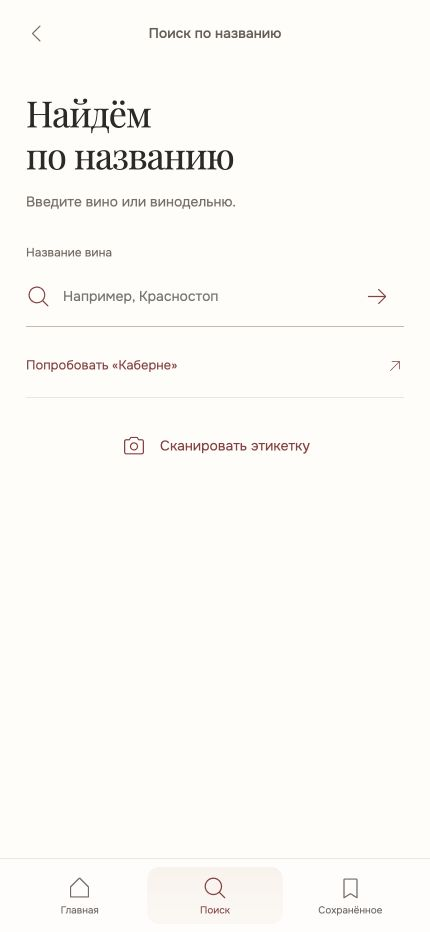
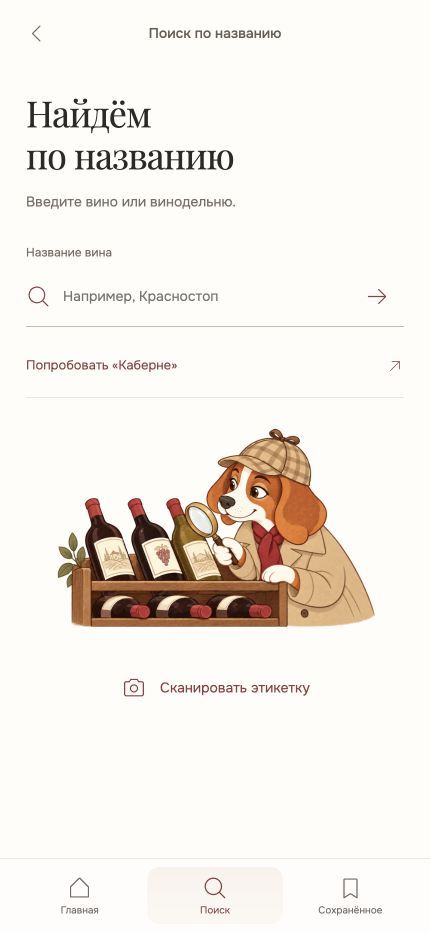
design: approve Air v3.4 and hand off audited behavior with search mascot

diff --git a/design/wine-ux-v3/air/review.html b/design/wine-ux-v3/air/review.html
@@ -17,5 +17,5 @@ body{background:#f5f2ec;color:#2c2a28}main{max-width:1270px;margin:auto;padding:
 <figure><a href="./?screen=saved"><img src="review/air-saved-430.png" width="430" height="932" alt="Пример сохранённого вина" loading="lazy"></a><figcaption><a href="./?screen=saved">Сохранённое ↗</a><span class="caption">Чтобы наполнить полку в макете, сохраните вино из карточки.</span></figcaption></figure>
 </div></section>
 <section class="section"><h2>Проверка перед показом</h2><p class="qa">Сравнение снято в одном браузере на 430 × 932. Дополнительно проверены мобильные ширины 402, 440, 412 и 360 px. Это проверка веб-вёрстки, а не тест на физических iPhone и Android. Все данные синтетические, системная камера и поиск не подключены.</p><p class="qa">Открытый список требует чуть больше прокрутки. Тонкие иконки сохранили контраст, но их удобство на реальном экране и при ярком свете ещё стоит оценить руками.</p></section>
-<details><summary>Changelog · 25 сентября 2026</summary><p><b>Air / 3.4.</b> Отдельный вариант в папке air. Обновлены все 11 экранов: главная, камера, распознавание, долгий поиск, выдача, карточка, нет совпадений, ошибка сервиса, нет сети, ручной поиск, сохранённое. Старый v3.3 не изменён. Выполнены визуальное сравнение и ручная проверка ключевых переходов. Это дизайн-предложение, не передано в реализацию.</p></details><footer>Мобильный прототип · Своё Вино · Phosphor Icons / MIT</footer>
+<details><summary>Changelog · 25 сентября 2026</summary><p><b>Air / 3.4.</b> Отдельный вариант в папке air. Обновлены все 11 экранов: главная, камера, распознавание, долгий поиск, выдача, карточка, нет совпадений, ошибка сервиса, нет сети, ручной поиск, сохранённое. Старый v3.3 не изменён. Выполнены визуальное сравнение и ручная проверка ключевых переходов. Дизайн согласован 25.09.2026. Добавлен маскот пустого поиска по названию. Требования передаются в Sigma Ops BDD; TEST и PROD пока не обновлять.</p></details><footer>Мобильный прототип · Своё Вино · Phosphor Icons / MIT</footer>
 </main></body></html>

diff --git a/design/wine-ux-v3/air/index.html b/design/wine-ux-v3/air/index.html
@@ -17,7 +17,7 @@
 <div class="scenario-list" id="scenario-list"></div>
 <section class="state-rationale" aria-live="polite"><span>ЛОГИКА ЭКРАНА</span><p id="state-rationale"></p></section>
 <section class="change-map"><h2>Что примеряем</h2><ol><li><b>Выдача:</b> бутылки и текст на общей поверхности; лидер крупнее, между строками лёгкие линии.</li><li><b>Главная:</b> цельная кремовая сцена, одна заметная кнопка, вторичные действия без подложек.</li><li><b>Иконки:</b> единое семейство Phosphor Light. Тонкий рисунок, большая область нажатия.</li><li><b>Камера и карточка:</b> убраны декоративные плашки и тени. Приоритет у снимка и вина.</li><li><b>Движение:</b> навигация плавно переходит между пунктами. Заметки о вине можно поставить на паузу.</li></ol></section>
-<p class="studio-lead air-disclaimer">Это отдельное предложение. Вина вымышлены; камера, галерея и поиск — симуляции. В приложение изменения не переносились.</p>
+<p class="studio-lead air-disclaimer">Дизайн согласован для реализации. Здесь вина вымышлены; камера, галерея и поиск — симуляции. Продуктовая реализация ведётся отдельно, без выкладки на TEST и PROD.</p>
 <p class="report-doc-links"><a href="research.md">Исследование и источники ↗</a></p>
 <details class="studio-details"><summary>Changelog <span>↗</span></summary><div><p><b>25.09.2026 · Air / 3.4</b></p><p>Вариант без карточек-плашек, тонкие иконки и единая лёгкая композиция на 11 экранах. Поведение v3.3 сохранено; исходный вариант доступен отдельно.</p></div></details>
 </aside>

diff --git a/design/wine-ux-v3/air/styles.css b/design/wine-ux-v3/air/styles.css
@@ -119,3 +119,10 @@ body{background:#f3f0e9}
  .empty-screen .state-dog,.empty-screen .state-dog.counter{height:160px;margin-top:8px;margin-bottom:15px}
  .capture-screen{padding-top:12px}
 }
+
+/* Approved name-search empty state: scene belongs to the page, not a card. */
+.search-mascot{height:220px;margin:22px -10px 0;display:flex;justify-content:center;align-items:center}
+.search-mascot .dog{display:block;width:100%;height:100%;object-fit:contain}
+.search-screen:has(.search-input input:not(:placeholder-shown)) .search-mascot{display:none}
+@media(max-height:850px){.search-mascot{height:180px;margin-top:18px}}
+@media(max-height:740px){.search-mascot{height:145px;margin-top:10px}}

diff --git a/design/wine-ux-v3/air/bdd-audit.md b/design/wine-ux-v3/air/bdd-audit.md
@@ -1,0 +1,121 @@
+# Air / v3.4: аудит BDD перед реализацией
+
+Дата: 25.09.2026. Основание: новое согласование Макса в текущей задаче — Air/v3.4,
+новые BDD/тесты и замена устаревших проверок разрешены. Это аудит, не реализация.
+Формулировки «не утверждено» / «передачи BDD нет» в прежнем README описывают предыдущую итерацию.
+
+Проверена ветка `codex/design-v3-recovery`, HEAD `d7ef1ca`.
+Read-only `git fetch origin main` подтвердил `origin/main = b60c647` (PR #59).
+`git diff HEAD origin/main -- apps/web cases docs/product` пуст:
+продуктовые исходники, сценарии и проверки здесь совпадают с проверенным main.
+Checkout/reset, изменение продукта, тестов, CI, live-сервисов и browser QA не выполнялись.
+Изменён только этот документ. Тесты не запускались: аудит не заявляет их прохождение.
+
+Прочитаны корневые AGENTS/MAP/README, RULES, web AGENTS, актуальные behavior/design,
+catalog-display/card-polish/security specs, cases.json, React/API-клиентские проверки
+и соответствующие переходы App.tsx. Исторические reports не приняты за текущую спецификацию.
+
+## Правило миграции
+
+Сохранить стабильный ID, когда его смысл остаётся прежним; обновить Given/When/Then,
+название в cases.json и связанный исполняемый тест в одном изменении.
+«Retire» ниже означает убрать конкретное устаревшее ожидание, не удалить весь тест/ID
+и не ослабить его остальные гарантии. Прежние отчёты остаются историей.
+Новые ID назначить при реализации после проверки реестра; метки A34 ниже — локальная
+матрица аудита, не занятые case IDs и не новые постоянные тесты.
+
+## Матрица существующих требований и тестов
+
+Пути в таблицах относительно корня репозитория; номера строк — проверенный HEAD.
+
+| ID / точный тест или источник | Решение | Причина и необходимая замена |
+|---|---|---|
+| DEMO-003; SR-001/005; `App.test.tsx:204`, `SR-005 one photo candidate sends its receipt into search and reaches UI-007` | Revise; retire автоматический exact→карточка | Любое непустое фотоответное множество, включая единственный selectedId и высокий score, сначала список. Проверку multipart→receipt→search оставить; перед открытием UI-007 явно выбрать строку. Не менять API-001/selectedId на сервере ради этого UI-решения. |
+| SR-005; `App.test.tsx:191`, `one unselected photo candidate uses a singular heading and one actionable row` | Keep + extend | Уже проверяет ручной выбор singleton. Добавить тот же результат с selectedId; отсутствие фиктивных альтернатив и корректное единственное число сохранить. |
+| SR-001/002/003/004; `App.test.tsx:447`, `keeps multi-photo candidates ordered until a user chooses one, then restores the list`; `:492`, `handles the system Back event...` | Keep + extend | Порядок backend, выбор именно ID/года, возврат и отсутствие нового HTTP остаются. Проверить выбранный не первый ID, высокий score, положение списка и исходный снимок; selectedId не переставляет строки. |
+| DEMO-005; UI-004/005; `App.test.tsx:280`, `cancellation returns home and keeps a photo only for explicit resume or deletion` | Revise; retire resume/delete-photo Home | Отмена теперь чистая Главная: убрать ожидания «Продолжить поиск» и «Удалить фото»; проверить их отсутствие, очистку фото/receipt/результата и abort. Сохранить запрет автоматического повтора. |
+| UI-005; `App.test.tsx:315`, `ignores a late response after cancellation and resumes only on request` | Keep stale-response assertion; rename + extend | Тело этого теста фактически проверяет поздний ручной ответ после Back, а не возобновление фото. Сохранить эту защиту; отдельно покрыть late success/error загрузки и поиска по фото после Home. Название больше не должно обещать resume. |
+| UI-022; `navigation.test.tsx:125`, `keeps a completed scan photo when Home opens without camera` | Revise; retire retained-photo assertions | Проверить чистую Главную из результатов/карточки и отсутствие getUserMedia. Нельзя оставить прежнюю фотографию просто скрытой с доступным старым receipt. |
+| UI-022; `navigation.test.tsx:82`, `bottom Home returns to the start screen without starting camera capture`; `:104`, `explicit scan CTA...` | Keep; split scope clearly | Home не открывает камеру; CTA открывает, отказ имеет fallback; сохранённые вина не удаляются. Сохранение ручного query при повторном входе — отдельное прежнее свойство, не отменённое требованием очистить фото-попытку. Не превращать чистую Home в очистку localStorage. |
+| DEMO-006, SR-005; `App.test.tsx:540`, `zero photo candidates offer the existing manual-search and reshoot fallback` | Extend; revise class-only assertions | Сейчас проверены ручной поиск и камера, но нет галереи. Добавить обе возможности замены фото; сохранить запрет выдуманных результатов. `primary`/`secondary` не являются самостоятельным поведением; точный вид берётся из Air. |
+| SR-006; `App.test.tsx:570`, `declining candidates keeps the editable correction context without its photo` | Revise transition; keep manual isolation | Прямой отказ сейчас сразу ведёт в редактируемую коррекцию. Air сначала показывает восстановление «варианты не подошли», отличное от пустого ответа, с названием/камерой/галереей. Затем ручное поле не должно показывать фото; Back возвращает исходную ветку. Не терять её фото до принятой замены. |
+| DEMO-009, UI-028; `App.test.tsx:691`, `distinguishes network and server failures and retries a retained receipt` | Keep + strengthen | Сеть фото покрыта; серверная половина — только manual GET. Нужны photo-search 503, timeout и невалидный ответ отдельно от пустого успеха; повтор использует receipt. После успешного retry ожидается список, затем явный выбор. |
+| UI-005; `App.test.tsx:339`, `retry preserves scenario and query`; `:363`, `retry reuses a completed upload receipt` | Keep | Не загружать те же байты повторно, когда есть receipt. Обновить лишь helper/ожидание auto-open. Ошибка upload до receipt допускает повтор upload. |
+| UI-011; `App.test.tsx:237/250`; `api.test.ts:40`, `distinguishes rejected image content from temporary upload failures` | Keep + extend origin | Невалидный файл — ошибка ввода, не no-match и не server-search error. При отмене/отказе от замены прежний контекст доступен; клиентская проверка не заменяет серверную. |
+| UI-001/002/003/003A; `App.test.tsx:62/88/113/162/175` | Keep + extend | Реальная камера, JPEG capture, остановка текущего и поздно полученного stream, gallery и permission fallback остаются. Новый accepted capture сразу запускает upload/search без экрана подтверждения. |
+| UI-026; `App.test.tsx:629`, `preview returns to its settled async origin instead of restoring stale loading` | Keep + extend | Закрытие просмотра сохраняет фактически завершившееся состояние. Список/scroll не сбрасываются, новый HTTP не отправляется. Проверить завершение запроса пока снимок открыт. |
+| UI-027; `App.test.tsx:664`; `navigation.test.tsx:315`, `returns from a catalog card to the same list position`; `:328`, `a saved card correction cannot reuse candidates from an older search` | Keep + extend | Возврат соответствует фото/ручному поиску/каталогу/сохранённому, не глобальному последнему списку. Не повторять HTTP, не открывать клавиатуру насильно. |
+| SR-007; `App.test.tsx:425`, `renders unknown fields and a broken catalog image without inventing metadata` | Revise; retire «Год не указан» | Неизвестный год исчезает из видимого текста и accessible name. Полное имя, честная заглушка и отсутствие пустых разделителей остаются. Год не извлекается из названия; известные данные не теряются. |
+| CAT-004/005/007; `catalog-display-spec.md`, `catalog.test.tsx:90/104`; UI-029 `App.test.tsx:739` | Keep + extend | Только существующие структурированные поля; никакого дегустационного описания цвета вместо краткой категории. Источник/дата только реальные, честная reference/demo пометка сохраняется. Отсутствие сведений не заменяется заполнителями. |
+| SR-008; `App.test.tsx:405`; REC001…REC005 `recommendations.test.tsx` | Keep | Ранжированный текстовый поиск и рекомендации сохраняют порядок и выделение лидера; исходный каталог/сохранённое не получают ложный рейтинг. Ошибка рекомендаций не заменяет карточку; stale response отменяется. |
+| CAT-015…021; все тесты `live-search.test.tsx`; UI-024 `navigation.test.tsx:299` | Keep | 250ms, первый непустой символ, IME, явный submit, отмена, стабильность прежних карточек, серверная пагинация и возврат остаются. Air-макет с demo submit не основание вводить лишний шаг или убирать live search. |
+| UI-008; `App.test.tsx:271`, `keeps the catalog hidden until the user asks for it`; `:528`, `does not send an empty manual query...` | Keep + extend idle art | Начальный ручной ввод остаётся сразу доступным. Добавить 2D alpha mascot в idle; он исчезает при загрузке/выдаче/пустом результате/ошибке и не превращается в промежуточный экран. Явный каталог и очистка уже выполненного поиска по CAT-017 не равны idle. |
+| DESIGN-022; `design.test.tsx:182`, `places selected mascots only in their approved rendered app states` | Revise placement checks; keep alpha semantics | Текущий тест проверяет mascot по входу нижнего «Поиск», но не матрицу фаз ручного поиска. Добавить оба входа, alpha, отсутствие смешивания и mascot в результатах. Пиксельный размер файла >50KB не доказывает качество/прозрачность и не должен запрещать оптимизированный asset. |
+| DESIGN-022; `design.test.tsx:221`, `gives photo no-match actions the approved full-width geometry` | Retire obsolete geometry; replace | Две full-width кнопки v2 не соответствуют Air с основным действием и лёгкой камерой/галереей. Сохранить доступность всех трёх выходов, touch targets и видимость на малом экране. |
+| DESIGN-023/026; `card-polish.test.tsx:41/73`, `card-polish-spec.md`; SR-009 | Revise surfaces; keep content/order/images | Отменяются обязательная белая отдельная плитка, белый фон каждой фото-подложки, старый бордовый контур лидера. Air: единая поверхность, разделители, мягкая градация лидера. Остаются contain, full title, fallback, 76×132 / 56×98, backend order и контраст. |
+| DESIGN-024/025; `card-polish.test.tsx:51/62`; UI-023 `navigation.test.tsx:274` | Keep semantics; adapt approved layout only | Именованные Back/Save, aria-pressed, сохранение ID, длинное название и fallback не удаляются ради новой композиции. Точный старый CSS hero/`sizes` меняется только с корректным новым srcset/layout, не произвольно. |
+| DESIGN-013; `design.test.tsx:124`, `preserves the approved Atlas scan vector...` | Revise exact-vector contract | Air утверждает Phosphor Light. Убрать зависимость от старых path/stroke, проверить выбранную согласованную геометрию и имя действия; камера слева и scan справа CTA остаются. |
+| DESIGN-001/002/003/004/006/014/017/018/019/020/022; `design.test.tsx` | Review numeric CSS assertions individually | Шрифты, доступные имена, области касания, focus, active navigation и адаптивность сохранить. Старые цвета/margin/radius/размеры сцены/иконки заменить только на конкретные Air решения. Не удалять весь design suite из-за substring mismatch. |
+| DESIGN-005/007/008/010/011/012/015/016 | Keep invariants | Нет report controls в продукте; настоящая камера, видимый shutter, подсказка вне рамки, safe area, короткий/ландшафтный viewport, desktop shell. Изменение тонкости рамки не отменяет их. |
+| UI-016…021; CAT-001…014; UI-012…015; UI-025; SEC-001…009 | Keep | Каталог, сохранённое, ошибки browser storage, PWA без обязательной установки, API versioning и безопасность не входят в отменяемое поведение. |
+
+## Недостающие сценарии: проверяемая приёмка
+
+| Аудит | Given / When / Then | Уровень и защита от слабой проверки |
+|---|---|---|
+| A34-01 Чистая Home | Из pending upload, pending search, slow, results, detail, empty, network/server error нажать Home; либо отменить поиск. Нет фото, resume, прежнего результата; все активные запросы abort; доставленные позже success/error ничего не меняют. Новый снимок создаёт новую попытку. | React: отложенные promises для обоих запросов, проверить signal и DOM после late resolve/reject. Проверить revokeObjectURL и отсутствие повторного HTTP. Сохранённое не очищается; не ожидать удаления уже приватно загруженного файла на сервере. |
+| A34-02 Results first | Ответ: 0 / 1 / несколько; selectedId отсутствует / совпадает / указывает не на первый; допустимый высокий score. Ноль→empty; иначе список в исходном порядке; только первый лидер, ни одной auto-open карточки. | React table-driven, assert список до клика и правильный ID после. Валидность selectedId определяется действующим API-контрактом, не новым допущением UI. Не придумывать поля confidence для fixture. |
+| A34-03 Все входы замены | Из results, empty, rejected-candidates, server error, offline нажать camera либо gallery. Отмена camera/пикера возвращает именно источник с прежними photo/receipt/list/query/scroll; принятый файл/снимок заменяет попытку и запускает поиск. | React переходы + browser нативный file picker/cancel. Cancel не моделировать пустым успешным upload. Невалидный выбор не стирает прежний контекст. Повторный выбор того же файла также работает. |
+| A34-04 Гонки замены | Пока попытка A работает, принять B; A позже отдаёт receipt/успех/ошибку. Только B определяет UI и receipt; камера A остановлена. | Отложенные HTTP promises, отдельные receipts/ID, отрицательные assertions после обоих порядков завершения. |
+| A34-05 Три исхода | Валидный 200 + []→нет совпадений; transport failure→сеть; 503/timeout/malformed response→ошибка сервиса. В ошибках нет утверждения об отсутствии вина. Retry с готовым receipt без upload; ошибка до receipt повторяет upload. | React + API-client validation. Отдельно photo pipeline, не подмена проверкой manual catalog. Abort по Home не показывается как offline/error. |
+| A34-06 Loading | Запрос начат; линия ограничена прямоугольником исходного фото и не проходит по маскоту. Fast/slow ожидание завершается автоматически по реальному ответу, без Continue/демо-кнопки. | DOM ancestry + browser clipping/геометрия. fake timers и deferred response; проверить быстрый успех, поздний успех/ошибку и отмену. Демо-таймер не является производственным источником результата. |
+| A34-07 Заметки | Пока loading/slow, заметка может сменяться; Pause останавливает только смену текста, кнопка меняет имя/состояние, resume восстанавливает. Поиск и его автоматическое завершение продолжаются. | fake timers, assert неизменный текст после pause и успешный переход по HTTP. Заметки — общие факты, не описание распознанного вина. |
+| A34-08 Reduced motion | prefers-reduced-motion: reduce до входа и при изменении настройки: заметки не автолистаются; scan/slide/spinner не навязывают движение; статический status и все действия доступны. Уход очищает timers. | matchMedia stub + CSS и browser. Отключение анимаций не блокирует request completion и не скрывает статус. Modal photo/background tab не накапливают отложенные смены заметок. |
+| A34-09 Поля | Полная/частичная карточка, неизвестный год/тип/крепость/источник; структурированный color отсутствует, description содержит длинный текст цвета. Показать только имеющиеся разрешённые краткие факты, без «Год не указан», «Нет данных» и разделителей-заполнителей. | DOM список + detail + accessible name. Категорию не добывать парсингом description/name; настоящие числовые диапазоны не усреднять. Не уничтожать полное каталожное описание в предназначенной для него области. |
+| A34-10 Возврат | Открыть не первый результат после scroll/дополнительной страницы из photo/manual/catalog/saved; экранный Back и browser Back восстанавливают правильный источник, query, список, cursor/scroll, без лишнего HTTP и насильного focus. | Расширить SR-003/004, UI-027, CAT-020. Browser нужен для настоящего History/scroll; jsdom не доказывает физическую прокрутку. |
+| A34-11 Ручной ввод | Оба входа сразу показывают поле и idle 2D alpha mascot. Первый ввод запускает CAT-015; loading/results/empty/error остаются под полем без mascot и отдельного шага. Очистка следует CAT-017. | DOM переходы по всем фазам, оба входа; сохранить CAT-016…021 и IME. Не добавлять запрос каталога лишь ради анимации. |
+| A34-12 Light controls | Камера/галерея, Back/Save, pause, навигация доступны клавиатурой и reader; тонкий glyph не уменьшает область нажатия. На 320/360/390/430px, enlarged text и safe area нет перекрытия/overflow. | DOM accessible names, focus/pressed/current; browser measured targets: минимум 44 CSS px, сохранить существующий более строгий 48px там, где он задан; Air recovery 54×54 / компактный 48×52. Не путать размер SVG 25–30px с кнопкой. |
+
+## Несогласованности документации, которые следует закрыть в реализации
+
+1. `behavior-spec.md`: DEMO-003/005/006/009, UI-022, преамбула SR про сохранение
+   одиночного exact-перехода, SR-001/005/006/007 и порядок кратких полей.
+2. `cases/cases.json`: UI-004/005 сейчас прямо обещают retained-photo/resume;
+   поменять title и при необходимости ссылки вместе с тестом, сохранив историю ID.
+3. `apps/web/design-specs.md`: старый mascot placement, точная Atlas-геометрия,
+   «Год не указан», бордовый контур/белые плитки; `card-polish-spec.md` DESIGN-023/026.
+4. `design-v2-migration-plan.md`: retained context/resume и старые «Нет данных»
+   сделать явно историческими, а не конкурирующим нормативным заданием.
+5. Web AGENTS всё ещё предписывает выбранный v2: обновить ссылку на согласованную
+   миграцию v3.4, сохранив upload/PWA/stable UI IDs. Общие контрактные границы не менять.
+
+## Неослабляемые границы
+
+- `API-010…014`, `SEC-001…009`, `UI-011`, `api.test.ts`, `request_security_test.go`,
+  `security_test.go`: реальная проверка/лимиты upload, приватное хранение, receipt,
+  непубличность фото, Origin/тип/размер/rate limits и разграничение ошибок остаются.
+  Очистка UI не равна удалению серверного файла и не требует нового delete endpoint.
+- `API-001…004` продолжают проверять форму/порядок/selectedId/empty/503 backend;
+  results-first — политика отображения. Нельзя менять fixture на отсутствие selectedId,
+  чтобы скрыть регрессию автоматического открытия.
+- `CAT-001…014`: серверные страницы и курсоры, version/alias/provenance,
+  запрет выдуманных полей, диапазоны, импорт/DB-инварианты сохраняются.
+  `CAT-015…021`: debounce/IME/cancellation/stable rows/append/retry/back сохраняются.
+- `UI-017…021`, `REC001…REC005`, PWA и конкурcный eval-контракт не отменены.
+  UI-полировка не основание удалить сохранения/рекомендации или обещать offline ML.
+- Новые fixtures синтетические, минимальные; пользовательские фото/каталог/секреты
+  не копируются в Git. Mock доказывает границу UI, не доступность модели и не точность.
+
+## Передача в реализацию и проверка
+
+Сначала изменить канонические сценарии и case mapping; затем продукт и тесты по ним.
+Заменять obsolete assertions адресно, оставляя соседние проверки upload/abort/ID/контекста.
+Каждый новый тест должен падать на конкретном прежнем нарушении, а не проверять
+наличие нового classname или копировать алгоритм компонента.
+
+В реализации выполнить затронутые Vitest suites, production build и общий runner по README;
+Go/security/catalog suites не исключать из общего прогона. Затем отдельное browser review
+реального React-приложения: native gallery cancel, camera cleanup, small viewport/enlarged
+text/safe area, keyboard, History Back, scan clipping и reduced motion.
+Результат прототипа и наличие этой таблицы не заменяют эти свидетельства.
+Аудит не требует публикации, миграции БД, запуска live-сервисов или изменения доступов.

diff --git a/design/wine-ux-v3/air/behavior-v3.md b/design/wine-ux-v3/air/behavior-v3.md
@@ -1,0 +1,50 @@
+# Air 3.4 · поведенческий handoff
+
+Статус: утверждённый дизайн и целевое поведение для реализации Sigma, 25.09.2026. Исполняемые продуктовые тесты Sigma добавляет в ветке приложения. Этот документ и [сценарии](behavior-v3.feature) описывают продукт, а не демо-механику `air/app.js`.
+
+## Граница решения
+
+Чистая Главная завершает активный фото-путь: на ней видны сканирование, выбор фото и поиск по названию; нет прежнего снимка, receipt, «Продолжить поиск» и позднего перехода в результат. Это заменяет для Air фото-часть UI-004/005, UI-022 и DEMO-005 в [старой спецификации](../../../docs/product/behavior-spec.md); соответствующие старые тесты нужно переписать. Сохранённые вина и независимый контекст ручного поиска не удаляются.
+
+Внутри активного фото-пути исходный снимок доступен для просмотра в ожидании, выдаче и карточке. При ошибке сохраняются фото и receipt, если upload завершился, но просмотр фото на экране ошибки не обязателен. Камера через действующий `getUserMedia` и системная галерея доступны независимо из выдачи, пустого ответа, ошибки сервиса и отсутствия сети. Отмена выбора не создаёт шаг истории и сохраняет прежний экран, снимок, список и прокрутку. Принятие нового фото заменяет путь; старые ответы игнорируются. Отказ камеры оставляет галерею и поиск по названию.
+
+Один или несколько кандидатов, включая `selectedId`, exact match и высокую уверенность, требуют явного выбора: лидер сверху, остальные ниже в порядке API. Автоматический переход к одиночной exact-карточке из DEMO-003/SR-005 больше не действует. Лидер означает первый предложенный вариант, а не числовую вероятность. Нет фиктивных альтернатив или процентов. Пустой успешный ответ, явный отказ пользователя от кандидатов, ошибка сервиса и отсутствие сети различаются. Retry поиска после успешного upload использует тот же receipt без второго upload. Если upload не завершился, можно повторить его с сохранённым локальным файлом; поиск с пустым `photoId` не отправляется.
+
+Строки выдачи показывают только пришедшие структурированные данные: винодельня, название, год, тип, сахар, крепость. Отсутствующие поля скрываются; сенсорная проза из описаний для строк не сочиняется. Нет цены, рейтинга, наград и выдуманной уверенности. Полная карточка сохраняет реальное описание и предусмотренные поля. Из карточки экранный и системный Back возвращают к исходному списку с query/страницами/прокруткой. Просмотр исходного фото возвращает к актуальному состоянию входа.
+
+Поиск по названию сохраняет действующее FE-052/CAT-018 поведение: видимый непустой текст, в том числе во время IME-композиции, запускает запрос через 250 мс без ожидания `compositionend`. Enter во время композиции не отправляет запрос досрочно; неизменный `compositionend` не создаёт дубль. Вне композиции Enter/кнопка отправляют ожидающий запрос сразу. Поздние ответы игнорируются; первая страница ограничена, далее серверный cursor и «Показать ещё». Пустой начальный экран использует существующий `mascot-cellar-2d-alpha.webp` в свободной области. При запросе, загрузке, результатах, пустой выдаче и ошибке маскот скрыт. Локальная фильтрация синтетического массива и submit-only поиск из прототипа в продукт не переходят.
+
+Заметки во время ожидания могут меняться и останавливаться, но не задерживают и не отменяют запрос. При `prefers-reduced-motion` движения отключаются; строка статуса остаётся читаемой. Линия сканирования движется только по миниатюре исходного фото. Демонстрационные камера, fixtures, переключатели сценариев и таймеры 5/11 секунд не являются требованиями.
+
+## Экран × действие
+
+| Экран | Основной результат | Доступные действия | Сценарии |
+| --- | --- | --- | --- |
+| Главная | Чистый вход | Сканировать, выбрать фото, по названию | AIR-001, 002 |
+| Камера/выбор файла | Новое фото только после принятия | Снять, галерея, назад/отмена; отказ камеры | AIR-002–005, 013 |
+| Ожидание | Статус и исходное фото | Просмотр фото, отмена, пауза заметок | AIR-001, 002, 010, 014 |
+| Выдача | Лидер и остальные, даже exact | Выбор карточки, фото, камера, галерея, «ни одно» | AIR-003–010, 021 |
+| Карточка | Известные поля и настоящее описание | Назад, просмотр фото, сохранить/удалить | AIR-009, 010, 018–020 |
+| Ничего не найдено / отказ | Пустой ответ или отказ от кандидатов различимы | По названию, камера, галерея | AIR-003, 004, 007, 011, 023 |
+| Ошибка сервиса / нет сети | Разные причины | Retry с receipt, камера, галерея | AIR-003, 004, 011–013 |
+| Поиск по названию | Живой каталог и страницы | Ввод, Enter, поиск, ещё, карточка | AIR-015–018, 021 |
+| Сохранённое | Уникальные записи | Открыть, удалить, назад | AIR-019–021 |
+| Свежий вход / устаревшая история | Безопасный вход без активного фото | Главная, камера, галерея, по названию | AIR-022 |
+
+## Предлагаемые проверки Sigma
+
+### Полная продуктовая карточка
+
+Air detail — композиционный каркас, а не команда удалить функции продукта. Вверху сохраняются Back и текущее действие сохранения с лёгкой иконкой; вторую одинаковую кнопку сохранения из демонстрационного макета добавлять не нужно. После hero и известных характеристик сохраняются существующие вкладки «Обзор / Описание / Источник», коррекция и рекомендации в прежних смысловых разделах. Их поверхности адаптируются к Air, реальные данные и действия остаются. Сравнение этой полной карточки с каркасом должно включать отдельные снимки реализации.
+
+Для восстановления проверяется не только название экрана: Back из камеры на пустой ответ должен сохранять причину `empty`, а после явного отказа от кандидатов — `rejected`. В макете найденная коллизия исправлена отдельным действием возврата; это отдельное регрессионное ожидание AIR-003/004/023.
+
+| Слой | Что доказать | ID |
+| --- | --- | --- |
+| React/Vitest с управляемыми Promise и fake timers | Отмена/поздние ответы, замена фото, retry с тем же receipt, показ состояний, выбор ID, Back/History, сохранение, свежий вход | AIR-001–013, 018–020, 022, 023 |
+| React/Vitest с mocked catalog API | Debounce, IME, немедленный submit, stale response, cursor/«Показать ещё», восстановление текста и scroll | AIR-015–018 |
+| React/Vitest, DOM/accessibility | Семантика действий, названия кнопок, статус ожидания, пауза/сокращение движения, маскот без влияния на запрос | AIR-014, 017, 021 |
+| Go HTTP/контракт, только если меняется граница | Receipt/photoId, различение ошибок, ограничение страниц; существующие контрактные проверки переиспользовать | AIR-011–013, 016 |
+| Реальный браузер на 320/360/390/430 px и 200% текста | Сопоставление открытого списка с принятым скриншотом Air; цели 54×54 (компактно 48×52), фокус, клавиатура, маскот/навигация, reduced motion, History API | AIR-009, 017, 018, 021, 022 |
+
+Быстрые DOM/CSS проверки фиксируют семантику и ограничения, но не доказывают физическую камеру, мобильную геометрию или качество распознавания. Синтетические fixtures проверяют переходы и границы; не являются оценкой ML. Пересмотреть несовместимые проверки UI-004/005, UI-022, DEMO-003/005 и SR-005, сохранив покрытие отмены, receipt, карточки и возврата. Не писать хрупкие тесты на буквальный CSS или демо-таймеры.

diff --git a/design/wine-ux-v3/air/README.md b/design/wine-ux-v3/air/README.md
@@ -1,10 +1,10 @@
 # Air / 3.4 — отдельный вариант дизайна
 
-Дата: 2026-09-25. Ветка: `codex/design-v3-recovery`. Статус: готово к обсуждению, не утверждено для реализации.
+Дата: 2026-09-25. Ветка: `codex/design-v3-recovery`. Статус: согласовано Максом 2026-09-25 для BDD, тестов и реализации. Публикация разрешена на площадку Макса; TEST и PROD не обновлять.
 
 Просмотр: `http://127.0.0.1:8775/air/review.html` — сравнение; `http://127.0.0.1:8775/air/?screen=results` — интерактивный макет.
 
-Задача: распространить лёгкость заметки о вине и тонкой кнопки паузы на главную, камеру, выдачу и остальные состояния. v3.3 оставлен неизменным по прежнему URL. Продуктовые исходники, API, дизайн-спека приложения и живые сервисы не изменены. Передачи BDD в этой итерации нет.
+Задача: распространить лёгкость заметки о вине и тонкой кнопки паузы на главную, камеру, выдачу и остальные состояния. v3.3 оставлен неизменным по прежнему URL. Этот пакет содержит дизайн и поведенческие требования; продуктовую реализацию выполняет sigma-ops-server-ops-bdd в отдельной ветке. Прежняя граница «не передавать в реализацию» отменена новым поручением пользователя.
 
 ## Состав и решения
 
@@ -24,7 +24,7 @@
 
 ## Проверка композиции
 
-По уточнению пользователя возвращён фотоаппарат слева в CTA главной. Вторичные действия сближены по горизонтали (24 px) и подняты к CTA (8 px). Заголовки камеры, выдачи, поиска, ожидания и сохранённого выровнены по y=92 на контрольном размере. Иллюстрации трёх ошибок занимают одинаковую высоту. Действие сканирования в ручном поиске поднято к форме. Фото с заметкой в ожидании поднято на 20 px для связи со сценой. Независимый read-only аудит GPT-6 Sol использован для проверки пустот; размещение основных действий восстановления внизу сохранено осознанно.
+По уточнению пользователя возвращён фотоаппарат слева в CTA главной. Вторичные действия сближены по горизонтали (24 px) и подняты к CTA (8 px). Заголовки камеры, выдачи, поиска, ожидания и сохранённого выровнены по y=92 на контрольном размере. Иллюстрации трёх ошибок занимают одинаковую высоту. В пустом ручном поиске возвращена прозрачная 2D-сцена пса среди бутылок; она скрывается при непустом вводе и после отправки запроса. Действие сканирования расположено под сценой. Фото с заметкой в ожидании поднято на 20 px для связи со сценой. Независимый read-only аудит GPT-6 Sol использован для проверки пустот; размещение основных действий восстановления внизу сохранено осознанно.
 
 ## Выполненная проверка
 
